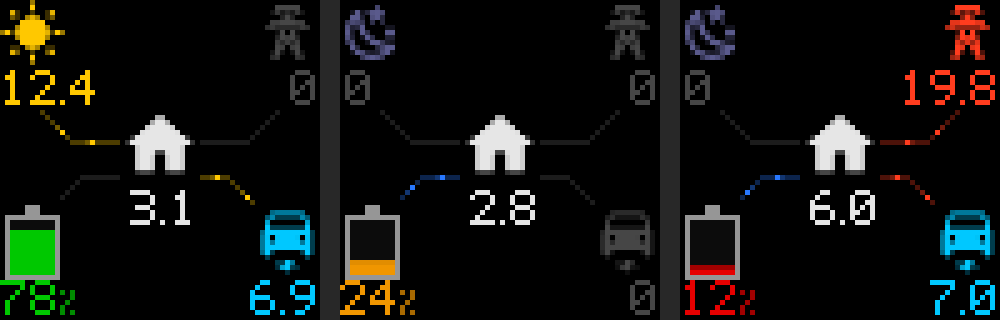
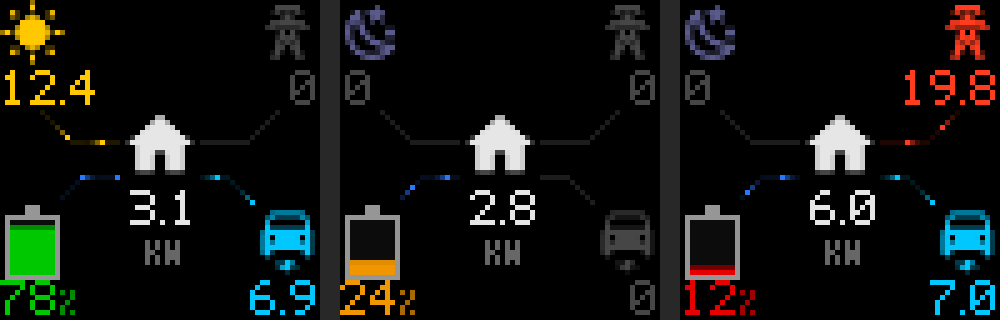
Power flow: comets (bright head, 3 px fading tail) moving 1-2 px a frame; car line always the car's colour; small KW label under the house figure; comets creep at night_speed (1 px/s) at night, battery pulse still; tests

diff --git a/apps/wled_matrix/wm_power.py b/apps/wled_matrix/wm_power.py
@@ -1,11 +1,13 @@
 """Power-flow screen: where the power is going now, as an animated diagram.
 
 Sun and solar power top left, the grid pylon top right, the battery gauge and charge bottom left, the car and its
-charging power bottom right, and the house and its load in the middle. A line joins each to the house; bright dots
-move along it in the direction of flow, faster with more power. Anything below `idle_w` is grey and still.
+charging power bottom right, and the house and its load in the middle, with a small "KW" under it. A dim line joins
+each to the house; bright "comets" (a head with a 3 px fading tail) move along it in the direction of flow, faster
+with more power. Anything below `idle_w` is grey and still. The car's line is always the car's colour.
 
-Pure Python, no dependencies. `t` is a time in seconds: the dots are placed from it, so frames drawn at any rate
-line up (the app redraws this screen `frame_rate` times a second while it's showing). At night the dots stand still.
+Pure Python, no dependencies. `t` is a time in seconds: the comets are placed from it, so frames drawn at any rate
+line up (the app redraws this screen `frame_rate` times a second while it's showing). At night the comets keep moving,
+slowly (`night_speed` px/s, drawn once a second), and the battery's pulse stands still.
 """
 
 import math
@@ -41,6 +43,8 @@ PATHS = {
     "battery": [(12, 39), (16, 35), (23, 35)],
     "ev": [(40, 35), (45, 35), (50, 40)],
 }
+HOUSE_NUMBER_Y = 38  # the house figure (5x7, rows 38-44)
+KW_LABEL_Y = 48  # "KW" (3x5, rows 48-52): three clear rows under the house figure
 
 
 def scale(colour, k):
@@ -82,8 +86,14 @@ def path_points(pts):
     return out
 
 
-def dot_speed(watts, max_w, slow=4.0, fast=16.0):
-    """Pixels per second a dot moves: `slow` at a trickle, `fast` from `max_w` up."""
+COMET_SPACING = 7  # px between comet heads
+COMET_TAIL = (1.0, 0.5, 0.22, 0.1)  # brightness of the head and the 3 px behind it
+COMET_LINE = 0.12  # brightness of the line under the comets
+
+
+def dot_speed(watts, max_w, slow=5.0, fast=10.0):
+    """Pixels per second a comet moves: `slow` at a trickle, `fast` from `max_w` up. At 5 frames a second that's 1-2 px
+    a frame, always well under the spacing, so the comets never seem to run backwards (the wagon-wheel effect)."""
     frac = max(0.0, min(1.0, abs(watts) / max_w)) if max_w > 0 else 1.0
     return slow + (fast - slow) * frac
 
@@ -118,8 +128,9 @@ class PowerCanvas(Canvas):
         if unit:
             draw_text(self, unit, end, y + 2, scale(colour, 0.7), TINY)
 
-    def flow(self, pts, colour, watts, t, idle_w, max_w, reverse=False, spacing=6, line=(28, 28, 28)):
-        """A dim line with bright dots (each with a short tail) moving along it, faster with more power."""
+    def flow(self, pts, colour, watts, t, idle_w, max_w, reverse=False, line=(28, 28, 28), speed=None):
+        """A dim line with comets (bright head, fading tail behind) moving along it, faster with more power.
+        `speed` overrides the pixels per second (used at night)."""
         points = path_points(pts)
         if reverse:
             points = points[::-1]
@@ -128,13 +139,14 @@ class PowerCanvas(Canvas):
                 self.put(x, y, line)
             return
         for x, y in points:
-            self.put(x, y, scale(colour, 0.3))
-        offset = int(t * dot_speed(watts, max_w)) % spacing
-        for i, (x, y) in enumerate(points):
-            if (i - offset) % spacing == 0:
-                self.put(x, y, colour)
-                if i > 0:
-                    self.put(*points[i - 1], scale(colour, 0.45))  # tail behind the dot shows the direction
+            self.put(x, y, scale(colour, COMET_LINE))
+        v = dot_speed(watts, max_w) if speed is None else speed
+        offset = int(t * v) % COMET_SPACING
+        for i in range(len(points)):
+            if (i - offset) % COMET_SPACING == 0:
+                for k, b in enumerate(COMET_TAIL):  # the tail behind the head shows the direction in a still frame
+                    if i - k >= 0:
+                        self.put(*points[i - k], scale(colour, b))
 
     def battery(self, x0, y0, w, h, soc, colour, outline, watts, t, idle_w):
         """Upright battery: cap, outline, filled from the bottom by charge; the edge of the fill pulses while it
@@ -212,23 +224,18 @@ def render_power_flow(cfg, states, width=64, height=64, mdi=None, t=0.0, night=F
     idle_w = float(cfg.get("idle_w", 50))
     max_w = float(cfg.get("max_kw", 10)) * 1000
     v = readings(cfg, states)
-    if night:
-        t = 0.0  # dots stand still at night
+    speed = float(cfg.get("night_speed", 1.0)) if night else None  # slow comets at night, drawn once a second
     c = PowerCanvas(width, height)
     live = lambda w: w is not None and abs(w) >= idle_w  # noqa: E731
 
     solar, grid, batt, ev = v["solar"], v["grid"], v["battery"], v["ev"]
     gcol = col["import"] if live(grid) and grid > 0 else col["export"] if live(grid) else col["idle"]
-    # The car's line takes the colour of the biggest supply right now.
-    sources = [(solar or 0, col["solar"]), (max(grid or 0, 0), col["import"]), (max(-(batt or 0), 0), col["battery"])]
-    biggest = max(sources, key=lambda s: s[0])
-    supply = biggest[1] if biggest[0] >= idle_w else col["idle"]
 
-    kw_args = dict(idle_w=idle_w, max_w=max_w, line=col["line"])
+    kw_args = dict(idle_w=idle_w, max_w=max_w, line=col["line"], speed=speed)
     c.flow(PATHS["solar"], col["solar"], solar, t, **kw_args)
     c.flow(PATHS["grid"], gcol, grid, t, reverse=live(grid) and grid < 0, **kw_args)
     c.flow(PATHS["battery"], col["battery"], batt, t, reverse=live(batt) and batt > 0, **kw_args)
-    c.flow(PATHS["ev"], supply, ev, t, **kw_args)
+    c.flow(PATHS["ev"], col["ev"], ev, t, **kw_args)  # always the car's colour (Nat, 2026-11-08)
 
     # Solar, top left
     if live(solar):
@@ -243,11 +250,12 @@ def render_power_flow(cfg, states, width=64, height=64, mdi=None, t=0.0, night=F
     c.number(kw(grid, idle_w), "", 62, 14, gcol, align="right")
     # House, middle
     c.icon(mdi, "mdi:home", 24, 21, 16, col["house"])
-    c.number(kw(v["house"], idle_w), "", 32, 38, col["house"], align="center")
+    c.number(kw(v["house"], idle_w), "", 32, HOUSE_NUMBER_Y, col["house"], align="center")
+    c.text("KW", 32, KW_LABEL_Y, scale(col["house"], 0.45), font=TINY, align="center")  # the unit, once for all
     # Battery, bottom left
     soc = v["soc"]
     scol = soc_colour(soc, cfg)
-    c.battery(1, 41, 11, 15, soc, scol, col["outline"], batt, t, idle_w)
+    c.battery(1, 41, 11, 15, soc, scol, col["outline"], batt, 0.0 if night else t, idle_w)
     c.number("-" if soc is None else str(int(round(max(0, min(100, soc))))), "%", 0, 56, scol)
     # Car, bottom right
     ecol = col["ev"] if live(ev) else col["idle"]

diff --git a/tests/test_power_flow.py b/tests/test_power_flow.py
@@ -8,7 +8,7 @@ import unittest
 sys.path.insert(0, os.path.join(os.path.dirname(os.path.abspath(__file__)), "..", "apps", "wled_matrix"))
 
 import wm_power as wp  # noqa: E402
-from wm_text import TEXT, text_width  # noqa: E402
+from wm_text import TEXT, TINY, text_width  # noqa: E402
 
 CFG = {"solar": ["sensor.pv", "sensor.pv_ac"], "soc": "sensor.soc", "battery": "sensor.batt", "load": "sensor.load",
        "ev": "sensor.ev", "grid": "sensor.grid", "max_kw": 10}
@@ -86,9 +86,72 @@ class Drawing(unittest.TestCase):
         self.assertTrue(all(at(a, x, y) == tuple(wp.DEFAULT_COLOURS["line"]) for x, y in line))
         self.assertEqual(a, b)
 
-    def test_dots_move_by_day_and_stand_still_at_night(self):
+    def test_comets_move_by_day_and_slowly_at_night(self):
         self.assertNotEqual(self.frame(t=0, pv=5000), self.frame(t=0.5, pv=5000))
-        self.assertEqual(self.frame(t=0, night=True, pv=5000), self.frame(t=0.5, night=True, pv=5000))
+        # At night the app draws once a second: each second the comets move on by `night_speed` (1 px)...
+        self.assertNotEqual(self.frame(t=10, night=True, pv=5000), self.frame(t=11, night=True, pv=5000))
+        line = wp.path_points(wp.PATHS["solar"])
+        head = tuple(wp.DEFAULT_COLOURS["solar"])
+
+        def first_head(t):
+            px = self.frame(t=t, night=True, pv=5000)
+            return next(i for i, (x, y) in enumerate(line) if at(px, x, y) == head)
+        self.assertEqual(first_head(11), first_head(10) + 1)
+
+    def test_battery_pulse_still_at_night(self):
+        def fill_edge(t, night):
+            px = self.frame(t=t, night=night, batt=2000, soc=50)
+            return [at(px, x, y) for y in range(43, 55) for x in range(2, 11)]
+        self.assertNotEqual(fill_edge(0.0, False), fill_edge(0.5, False))
+        self.assertEqual(fill_edge(0.0, True), fill_edge(0.5, True))
+
+    def test_comet_tail_fades_behind_the_head(self):
+        """Each comet: the head at full colour, then 50 %, 22 % and 10 % behind it, on a 12 % line."""
+        line = wp.path_points(wp.PATHS["grid"])
+        red = tuple(wp.DEFAULT_COLOURS["import"])
+        px = self.frame(t=0, grid=3000)
+        colours = [at(px, x, y) for x, y in line]
+        heads = [i for i, c in enumerate(colours) if c == red]
+        self.assertTrue(heads)
+        self.assertTrue(all(b - a == wp.COMET_SPACING for a, b in zip(heads, heads[1:])))
+        for h in heads:
+            for k, b in enumerate(wp.COMET_TAIL):
+                if h - k >= 0:
+                    self.assertEqual(colours[h - k], wp.scale(red, b))
+        others = set(range(len(line))) - {h - k for h in heads for k in range(len(wp.COMET_TAIL))}
+        self.assertTrue(others)
+        self.assertTrue(all(colours[i] == wp.scale(red, wp.COMET_LINE) for i in others))
+
+    def test_comets_move_one_or_two_pixels_a_frame(self):
+        """At 5 frames a second the comets step 1-2 px, never as much as half the spacing (no wagon-wheel)."""
+        for watts in (100, 3000, 10000, 30000):
+            step = wp.dot_speed(watts, 10000) / 5
+            self.assertGreaterEqual(step, 1)
+            self.assertLessEqual(step, 2)
+            self.assertLess(step, wp.COMET_SPACING / 2)
+
+    def test_car_line_is_always_the_car_colour(self):
+        line = wp.path_points(wp.PATHS["ev"])
+        car = tuple(wp.DEFAULT_COLOURS["ev"])
+        allowed = {car} | {wp.scale(car, b) for b in wp.COMET_TAIL + (wp.COMET_LINE,)}
+        for supply in (dict(pv=9000), dict(grid=9000), dict(batt=-9000), dict(pv=3000, grid=5000)):
+            for t in (0, 0.2, 0.4, 0.6):
+                px = self.frame(t=t, ev=7000, **supply)
+                self.assertTrue({at(px, x, y) for x, y in line} <= allowed, supply)
+
+    def test_kw_label_sits_under_the_house_figure(self):
+        """"KW" in the 3x5 font at 45 % of the house white, rows 48-52, clear of a wide house figure ("12.4")."""
+        px = self.frame(load=12400)
+        dim = wp.scale(wp.DEFAULT_COLOURS["house"], 0.45)
+        rows = {y for y in range(64) for x in range(64) if at(px, x, y) == dim}
+        self.assertEqual(rows, set(range(48, 53)))
+        self.assertGreaterEqual(wp.KW_LABEL_Y, wp.HOUSE_NUMBER_Y + 7 + 3)  # 3 clear rows under the 7-row figure
+        w, kw_w = text_width("12.4", TEXT), text_width("KW", TINY)
+        number = {(x, y) for x in range(32 - w // 2, 32 - w // 2 + w) for y in range(wp.HOUSE_NUMBER_Y, wp.HOUSE_NUMBER_Y + 7)}
+        label = {(x, y) for x in range(32 - kw_w // 2, 32 - kw_w // 2 + kw_w) for y in range(wp.KW_LABEL_Y, wp.KW_LABEL_Y + 5)}
+        self.assertFalse(number & label)
+        line = {p for pts in wp.PATHS.values() for p in wp.path_points(pts)}
+        self.assertFalse(line & label)
 
     def test_grid_colour_follows_direction(self):
         x, y = wp.PATHS["grid"][0]

diff --git a/apps/wled_matrix/wled_matrix.py b/apps/wled_matrix/wled_matrix.py
@@ -6,8 +6,8 @@ to its normal effect or preset after its realtime timeout (about 2.5 s by defaul
 
 Screens can be conditional (`show_if`: only while an entity is on) or priority (`priority: true`: interrupt the
 rotation while their `show_if` entity is on, for at most `max_time` seconds). An optional `night` window dims every
-screen and stops flashing and animation. A screen with `frame_rate` is redrawn that many times a second while it's
-showing (for animation), except at night.
+screen and stops flashing and fast animation. A screen with `frame_rate` is redrawn that many times a second while
+it's showing (for animation), except at night.
 
 See README.md for the configuration.
 """

diff --git a/README.md b/README.md
@@ -13,10 +13,10 @@ An [AppDaemon](https://appdaemon.readthedocs.io/) app that shows Home Assistant 
 - **Camera screens:** a Home Assistant camera's still, refreshed every `refresh` seconds while the screen is shown (needs Pillow).
 - Any Home Assistant entity with a numeric state can be shown, and on/off entities (switches, lights, binary sensors) as `on`/`off`.
 - **Aircraft screens:** live aircraft near home from your own ADS-B receiver (readsb / tar1090 `aircraft.json`, or a Home Assistant entity listing them): a **radar**, the **nearest aircraft**, a **departures board**, or a flashing **alert** for low flyers, helicopters and emergencies.
-- **Power-flow screen:** solar, grid, battery, car and house joined by lines, with dots moving the way the power flows, faster with more power (Victron or any other system with power sensors).
+- **Power-flow screen:** solar, grid, battery, car and house joined by lines, with small comets moving the way the power flows, faster with more power (Victron or any other system with power sensors).
 - **Conditional and priority screens:** show a screen only while an entity is on, or let it interrupt the rotation (e.g. an alert).
 - **Animation:** a screen can set its own `frame_rate`, redrawn faster only while it's showing.
-- **Night dimming:** dim every screen (and stop flashing and animation) between two times.
+- **Night dimming:** dim every screen (and stop flashing and fast animation) between two times.
 
 ## Install
 
@@ -209,14 +209,14 @@ Positions update once a second (the receiver's rate), so dots and numbers move a
 
 ### Power-flow screen
 
-A screen with `power_flow:` shows where the power is going right now: the sun and solar power top left, the grid top right, the battery (filled and coloured by charge) bottom left, the car bottom right, and the house in the middle. Bright dots move along each line in the direction of flow, faster with more power. Numbers are kW with one decimal.
+A screen with `power_flow:` shows where the power is going right now: the sun and solar power top left, the grid top right, the battery (filled and coloured by charge) bottom left, the car bottom right, and the house in the middle. Small comets (a bright head with a 3-pixel fading tail, so the direction shows even in a still frame) move along each dim line in the direction of flow, faster with more power. Numbers are kW with one decimal; a small `KW` under the house figure gives the unit once for all of them.
 
 ![power flow: sunny with the car charging; evening on the battery; cheap-rate night charging the battery and car from the grid](docs/power-flow.png)
 
 ```yaml
   screens:
     power_flow:
-      frame_rate: 5                 # redraw 5 times a second while showing, so the dots move smoothly (see below)
+      frame_rate: 5                 # redraw 5 times a second while showing, so the comets move smoothly (see below)
       power_flow:
         solar: [sensor.pv_dc_power, sensor.pv_ac_power]   # one entity or a list, added up
         grid: sensor.grid_power     # W, + = importing, - = exporting
@@ -225,14 +225,15 @@ A screen with `power_flow:` shows where the power is going right now: the sun an
         load: sensor.house_load_power        # W
         ev: sensor.ev_charger_power          # W
         load_includes_ev: true      # the load sensor already counts the car: show the house as load - car
-        max_kw: 10                  # dots reach full speed at this power
+        max_kw: 10                  # comets reach full speed at this power
+        # night_speed: 1             # comets' pixels a second during the night window
 ```
 
 | Part | Colours |
 |---|---|
 | Grid | red while importing, green while exporting, grey when idle |
-| Battery line | blue, dots towards the house when discharging and towards the battery when charging; the edge of the fill pulses |
-| Car line | the colour of the biggest supply at the moment (solar yellow, grid red or battery blue) |
+| Battery line | blue, comets towards the house when discharging and towards the battery when charging; the edge of the fill pulses |
+| Car line | always the car's colour (`ev`, light blue) |
 | Battery fill and % | `soc_thresholds` (default green from 30 %, orange from 20 %), else `soc_colour` (red) |
 | Anything under `idle_w` | grey, with a still, dark line |
 
@@ -240,12 +241,13 @@ A screen with `power_flow:` shows where the power is going right now: the sun an
 |---|---|---|
 | `solar`, `grid`, `battery`, `soc`, `load`, `ev` | | Entities (W, and % for `soc`); any can be left out. Unknown states show `-` |
 | `load_includes_ev` | false | Subtract the car from the load for the house figure (on Victron systems with the chargers on the inverter's AC output, `AC consumption` includes them) |
-| `max_kw` | 10 | Power at which the dots reach full speed (4 to 16 pixels a second) |
+| `max_kw` | 10 | Power at which the comets reach full speed (5 to 10 pixels a second: 1 to 2 pixels a frame at `frame_rate: 5`, so they never seem to run backwards) |
+| `night_speed` | 1 | Pixels a second the comets move during the `night` window (the screen is then drawn once every `refresh`); the battery pulse stands still |
 | `idle_w` | 50 | Below this a flow counts as idle and shows `0` |
 | `soc_thresholds`, `soc_colour` | see above | `[{above: <percent>, colour: [r, g, b]}, …]` and the colour under all of them |
 | `colours` | | Override any of `solar`, `import`, `export`, `battery`, `ev`, `house`, `idle`, `line`, `moon`, `outline` |
 
-**`frame_rate`** (any screen): frames per second while that screen is showing, on a separate faster timer; the rotation and every other screen keep to `refresh`. Without it the dots still move, but only once every `refresh`. During the `night` window it's ignored and the dots stand still. Each frame is a few milliseconds of pure Python, and DDP is one small UDP burst, so 5 frames a second on several matrices is light work.
+**`frame_rate`** (any screen): frames per second while that screen is showing, on a separate faster timer; the rotation and every other screen keep to `refresh`. Without it the comets still move, but only once every `refresh`. During the `night` window it's ignored: the screen is drawn once every `refresh` and the power-flow comets creep along at `night_speed`. Each frame is a few milliseconds of pure Python, and DDP is one small UDP burst, so 5 frames a second on several matrices is light work.
 
 ### Conditional and priority screens
 
@@ -280,7 +282,7 @@ wled_matrix:
   night:
     start: "22:00"
     end: "07:00"
-    brightness: 0.25     # every pixel scaled to 25 %; flashing and animation stop
+    brightness: 0.25     # every pixel scaled to 25 %; flashing and fast animation stop
     # time_zone: Europe/London   # default: Home Assistant's time zone
 ```
 
